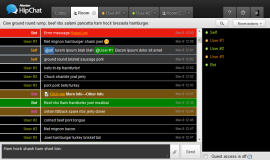
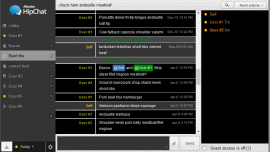
Theme new left side panel after version change
Update preview images

diff --git a/hipchat-dark.css b/hipchat-dark.css
@@ -1,6 +1,6 @@
 /* HipChat Dark Theme
  * Description: Inspired by Vibrant Ink Theme for Notepad++
- * Version: 1.0.3 (7/1/2013)
+ * Version: 1.0.4 (1/13/2014)
  * https://github.com/bpruitt-goddard/HipChat-Dark
  * Author: Brian Pruitt-Goddard
  */
@@ -40,6 +40,34 @@ body.chat #autocomplete div.member {
 .chatState.chatBlock.infoBlock {
   background: black !important;
 }
+
+/* Left Chat Panel */
+body.chat .logo, body.chat #tabs, body.chat li {
+  background: #333333 !important; 
+}
+
+body.chat li.selected {
+  background: #999999 !important;
+}
+
+body.chat li.selected a {
+  color: black !important;
+}
+
+body.chat #status_ui {
+  background: #1C1C1C !important;
+}
+
+body.chat #status_chooser div {
+  background-color: #999999 !important;
+  color: black !important;
+}
+
+body.chat #status_chooser div:hover {
+  background-color: green !important;
+  color: black !important;
+}
+
 
 /*My Chats */
 #chats .me, #chats .me .nameBlock {
